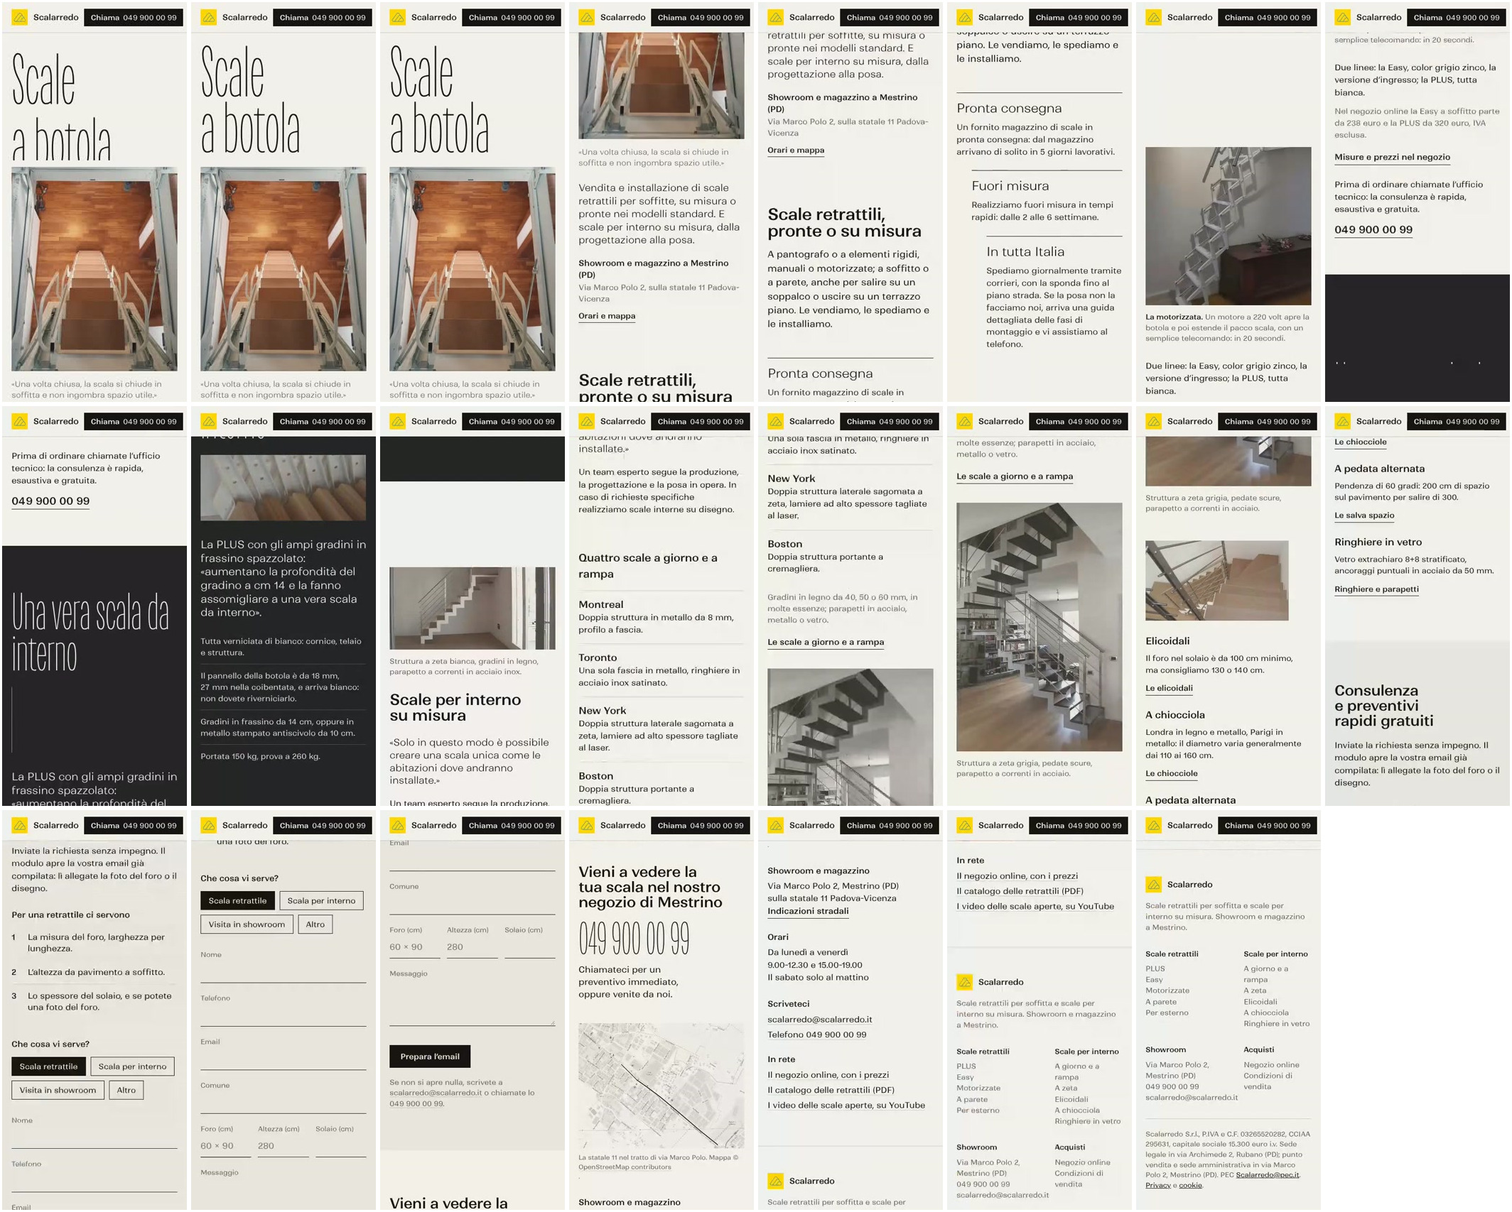
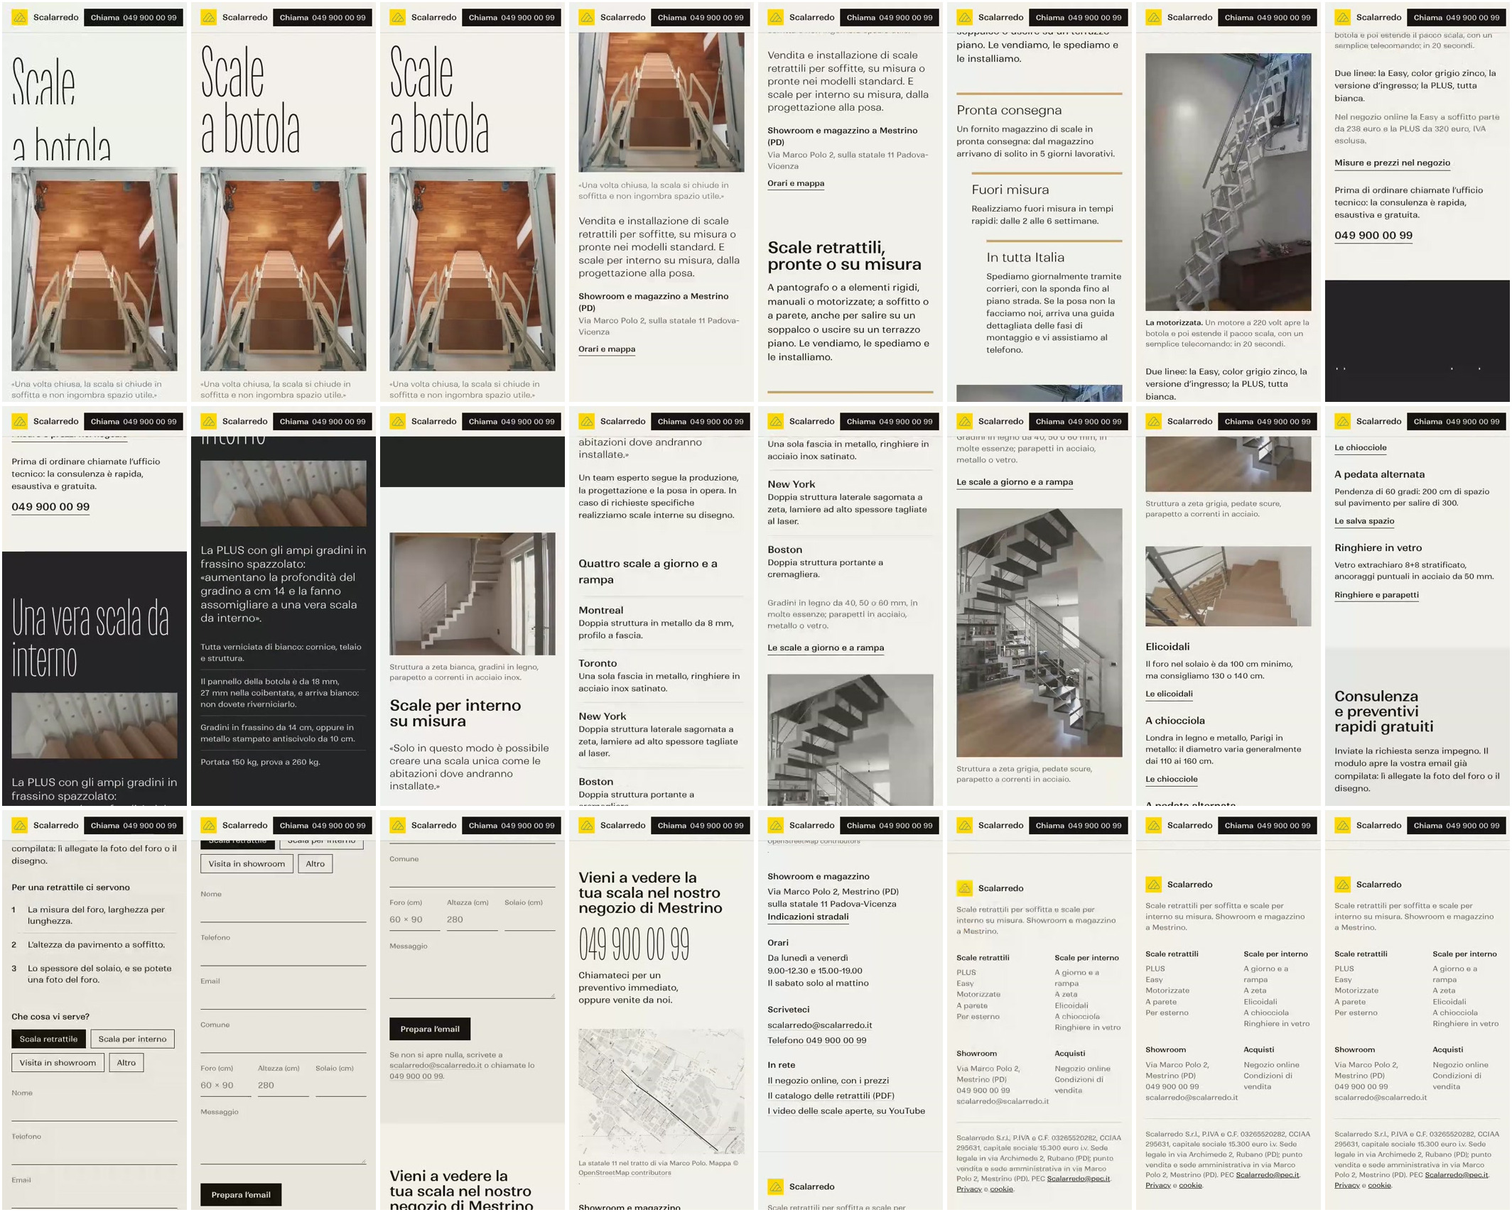
Home HE Scalarredo (prima stesura)
Claude-Session: https://claude.ai/code/session_01Cmi9YMM7yW9iHymGYNTnDH

diff --git a/Scaleabotola-Sito/sito-he/index.html b/Scaleabotola-Sito/sito-he/index.html
@@ -200,7 +200,7 @@ img{height:auto}
 .showroom{padding-block:var(--he-sez) clamp(72px,7vw,120px)}
 .sh-testa h2{grid-column:1 / span 8;font-weight:500;font-size:clamp(30px,2.9vw,44px);line-height:1.06;letter-spacing:-.02em;text-wrap:balance}
 .sh-tel{display:flex;flex-wrap:wrap;align-items:flex-end;justify-content:space-between;gap:12px 40px;margin:clamp(24px,3vw,44px) 0 clamp(48px,5vw,84px)}
-.sh-tel a{font-size:clamp(84px,17vw,268px);text-decoration:none;display:block}
+.sh-tel a{font-size:clamp(84px,22.5vw,380px);text-decoration:none;display:block}
 .sh-tel a:hover{color:#4a4743}
 .sh-tel p{font-size:18px;line-height:1.45;max-width:15em;padding-bottom:.6em}
 .sh-tre{align-items:start}
@@ -385,7 +385,7 @@ img{height:auto}
   <div class="he-wrap">
     <h2 class="firma-titolo display" id="t-firma" data-he-split>Una vera scala da interno</h2>
     <figure>
-      <div class="he-media firma-foto" data-he-wipe="sinistra"><img src="img/frassino-1200.webp" srcset="img/frassino-800.webp 800w, img/frassino-1200.webp 1200w, img/frassino-1685.webp 1685w" sizes="(min-width: 1760px) 1340px, (min-width: 900px) calc((100vw - 2 * clamp(20px, 4.2vw, 72px)) * .83), calc(100vw - 40px)" width="1685" height="670" loading="lazy" decoding="async" alt="I gradini in frassino spazzolato ripiegati nel pantografo bianco della scala retrattile PLUS"></div>
+      <div class="he-media firma-foto" data-he-wipe="su"><img src="img/frassino-1200.webp" srcset="img/frassino-800.webp 800w, img/frassino-1200.webp 1200w, img/frassino-1685.webp 1685w" sizes="(min-width: 1760px) 1340px, (min-width: 900px) calc((100vw - 2 * clamp(20px, 4.2vw, 72px)) * .83), calc(100vw - 40px)" width="1685" height="670" loading="lazy" decoding="async" alt="I gradini in frassino spazzolato ripiegati nel pantografo bianco della scala retrattile PLUS"></div>
     </figure>
     <div class="he-grid firma-sotto">
       <p class="firma-frase">La PLUS con gli ampi gradini in frassino spazzolato: «aumentano la profondità del gradino a <span class="nb">cm 14</span> e la fanno assomigliare a una vera scala da interno».</p>
@@ -404,7 +404,7 @@ img{height:auto}
   <div class="he-wrap">
     <div class="he-grid int-a">
       <figure>
-        <div class="he-media" data-he-wipe="su"><img src="img/zeta-1200.webp" srcset="img/zeta-800.webp 800w, img/zeta-1200.webp 1200w, img/zeta-1700.webp 1700w, img/zeta-2246.webp 2246w" sizes="(min-width: 900px) 62vw, calc(100vw - 40px)" width="2246" height="1664" loading="lazy" decoding="async" alt="Scala a giorno con la struttura a zeta bianca, i gradini in legno e il parapetto a correnti in acciaio, in una stanza vuota sotto il tetto"></div>
+        <div class="he-media"><img src="img/zeta-1200.webp" srcset="img/zeta-800.webp 800w, img/zeta-1200.webp 1200w, img/zeta-1700.webp 1700w, img/zeta-2246.webp 2246w" sizes="(min-width: 900px) 62vw, calc(100vw - 40px)" width="2246" height="1664" loading="lazy" decoding="async" alt="Scala a giorno con la struttura a zeta bianca, i gradini in legno e il parapetto a correnti in acciaio, in una stanza vuota sotto il tetto"></div>
         <figcaption class="didascalia">Struttura a zeta bianca, gradini in legno, parapetto a correnti in acciaio inox.</figcaption>
       </figure>
       <div class="int-testo">

diff --git a/Scaleabotola-Sito/DIREZIONE-HE.md b/Scaleabotola-Sito/DIREZIONE-HE.md
@@ -36,8 +36,8 @@ Aperti con Playwright il 7/11/2026 a 1440x900 (prima schermata e tre scorrimenti
 
 ## 3. Carattere
 
-- **Display: New Title** (Julie Soudanne e Jérémie Hornus, Fontshare, ITF Free Font License), peso 200, mai corsivo. È un carattere per i titoli di testa del cinema: lettere strettissime, quasi monolineari, alte. Usato grandissimo è una fila di montanti e alzate: il ritmo verticale di una ringhiera o del profilo di una scala vista di lato. Solo nei tre momenti forti: "Scale a botola" ai lati della botola (circa 230 px a 1440), "Una vera scala da interno" nella sezione firma (circa 250 px), il telefono nella chiusura (circa 200 px).
-- **Testo: Ranade** (Easha Ranade e Indian Type Foundry, Fontshare, ITF Free Font License), 300, 400 e 500. Un grottesco largo e calmo con le diagonali a contrasto (v, w, k, x): fa da pedata accanto alle alzate di New Title. Testo 18/28, `h2` di servizio in Ranade 500, righe grandi in 300. Cifre proporzionali (Ranade non ha le tabellari): i numeri stanno dentro frasi, non in colonna.
+- **Display: New Title** (Julie Soudanne e Jérémie Hornus, Fontshare, ITF Free Font License), peso 200, mai corsivo. Misure vere a 1440: "Scale" e "a botola" circa 204 px, la firma 268 px, il telefono 245 px. È un carattere per i titoli di testa del cinema: lettere strettissime, quasi monolineari, alte. Usato grandissimo è una fila di montanti e alzate: il ritmo verticale di una ringhiera o del profilo di una scala vista di lato. Solo nei tre momenti forti: "Scale a botola" ai lati della botola, "Una vera scala da interno" nella sezione firma, il telefono nella chiusura.
+- **Testo: Ranade** (Easha Ranade e Indian Type Foundry, Fontshare, ITF Free Font License), 300, 400 e 500. Un grottesco largo e calmo con le diagonali a contrasto (v, w, k, x): fa da pedata accanto alle alzate di New Title. Testo 18/28, `h2` di servizio in Ranade 500, righe grandi in 300. Cifre proporzionali (Ranade non ha le tabellari): i numeri stanno dentro frasi, non in colonna. Lo spazio indivisibile di Ranade è largo il doppio di uno spazio: numero e unità stanno in uno `span` che non va a capo, con lo spazio normale.
 - Registrati in `_metodo/professionale/alto/REGISTRO-CARATTERI.md`: nessuna altra home li usa (controllo su tutte le `*/sito/` e `*/sito-he/` e sul registro, 7/11/2026; Distilleria Rizzi, stessa zona, ha Besley ed Excon). Escono Archivo della versione di oggi e le famiglie vietate dalla consegna.
 - File woff2 ufficiali di Fontshare, ospitati senza modifiche in `sito-he/fonts/` con la licenza `FFL-ITF.txt`.
 
@@ -54,16 +54,16 @@ Dai materiali delle loro scale: la PLUS "tutta verniciata di bianco", il frassin
 
 - **Gesto d'apertura, la botola** (`data-he-scale`): la prima schermata è il soffitto, con il pannello chiuso disegnato da un filetto e una fessura scura nel mezzo. Scorrendo la fessura si apre fino al vano intero e si vede quello che c'era dietro: la scala retrattile dall'alto, i gradini in legno che scendono al parquet. La cornice parte stretta su un dettaglio e finisce sulla foto intera alla misura vera (2020x2491 mostrata a circa 600x740): scopre qualcosa, non cambia lo sfondo. Il titolo resta fermo ai lati, come scritto sul soffitto. Sotto i 900 px niente sezione fissata: titolo, foto e testo uno sotto l'altro.
 - **Sostegno 1, titoli che salgono riga per riga** (`data-he-split`): "Scale a botola" all'apertura, "Una vera scala da interno" nella firma, il telefono della chiusura. Tre in tutto.
-- **Sostegno 2, foto che si scoprono con un taglio** (`data-he-wipe`): solo le foto che entrano per la prima volta nelle due sezioni di prodotto (la motorizzata, la banda dei gradini in frassino, la scala a zeta), come una botola che si apre di lato.
+- **Sostegno 2, foto che si scoprono con un taglio** (`data-he-wipe`): solo due foto: la motorizzata nel sottoscala e la banda dei gradini in frassino della firma, che salgono dal basso come una scala che si apre. Le foto delle scale da interno entrano senza taglio: nel video un taglio a metà lasciava mezza schermata vuota. Sotto i 900 px il taglio è tolto: sul telefono le foto ci sono subito.
 - Testata che si nasconde scendendo (`data-he-header`), con il numero sempre visibile sul telefono.
 - Niente sipario, niente parallasse, niente gallerie fissate, niente indice: gli altri cambi di ritmo li fanno la scala dei caratteri e l'impaginazione a gradini.
 
 ## 6. Ritmo: sezioni e scheletri
 
 1. **Apertura, la botola** (scheletro simmetrico: un oggetto al centro, due colonne di testo ai lati). Calce. "Scale" a sinistra e "a botola" a destra del vano, a filo con il suo bordo alto; in basso a sinistra che cosa fanno, in basso a destra dove sono.
-2. **Retrattili, pronta consegna o su misura** (scheletro a gradini: quattro pedate sfalsate che scendono da sinistra a destra, ognuna con un filetto di pedata e uno di alzata; la foto della motorizzata sta nel sottoscala). Calce. Tipi, tempi, spedizione, montaggio, prezzi d'ingresso e il link al negozio online.
+2. **Retrattili, pronta consegna o su misura** (scheletro a gradini: tre pedate sfalsate che scendono da sinistra a destra, la pedata in frassino e l'alzata in nero, come la struttura a zeta con i gradini in legno; la foto della motorizzata sta nel sottoscala, sotto la seconda pedata la gamma e il negozio, sotto la terza l'ufficio tecnico). Calce. Tipi, tempi, spedizione, montaggio, prezzi d'ingresso e il link al negozio online.
 3. **Firma, "Una vera scala da interno"** (scheletro a pila centrata a tutta larghezza: titolo enorme, banda fotografica, frase, quattro dati in riga). Antracite. La PLUS con i gradini in frassino da 14 cm: la prova è la foto dei gradini sul pantografo bianco. Nessun bottone del negozio.
-4. **Scale per interno su misura** (scheletro a mosaico asimmetrico: foto grande a sinistra, testo in alto a destra, foto verticale sfalsata, elenco dei quattro modelli accanto). Calce. Montreal, Toronto, New York, Boston in quattro righe; elicoidali, chiocciole, pedata alternata e ringhiere in una frase.
+4. **Scale per interno su misura** (scheletro a mosaico a zeta: foto grande a sinistra e testo a destra; elenco dei quattro modelli a sinistra e foto verticale sfalsata a destra; poi la banda larga della rampa vista dall'alto e quattro voci in fila). Calce. Montreal, Toronto, New York, Boston in quattro righe; elicoidali, chiocciole, pedata alternata e ringhiere in una frase.
 5. **Richiesta di preventivo** (scheletro a modulo: tre passi numerati, perché sono una procedura, e il modulo largo). Calce con un fondo leggermente più scuro. Lo stesso modulo della versione di oggi, che prepara l'email.
 6. **Showroom di Mestrino** (scheletro a riga gigante e tre colonne: il telefono in New Title su tutta la larghezza, sotto mappa, orari e indirizzo, email e negozio). Calce.
 7. **Piede**: dati legali, condizioni di vendita, privacy e cookie, catalogo PDF, YouTube.

diff --git a/_metodo/professionale/alto/REGISTRO-CARATTERI.md b/_metodo/professionale/alto/REGISTRO-CARATTERI.md
@@ -36,4 +36,4 @@ Una riga per azienda, scritta nella direzione artistica prima dell'HTML. Control
 | Argenteria Varotto Alfredo, home HE (7/11/2026) | Padova (Corso Stati Uniti) | home HE, `_metodo/highend/SISTEMA.md` (i tetti di misura del registro non valgono) | Rowan (Indian Type Foundry, Fontshare, ITF Free Font License 2.0, woff2 ufficiali ospitati senza modifiche) solo per i tre momenti forti: il titolo d'apertura, il titolo della vetrina, il "999", più i due ovali 925 e 800; Plein (Indian Type Foundry, Fontshare, ITF Free Font License 2.0) per testo, `h2` di servizio, testata, didascalie, telefono e modulo; nessuna monospaziata | Rowan 300, mai corsivo (cifre antiche solo nel "999"); Plein 400 e 500, cifre allineate | "Tutta la tavola, in argento." Rowan 300 150/0,9 a 1440 / 64 a 390; "Argento massiccio" 196/0,84 / 64; "999" 374/0,74 / 172; `h2` Plein 500 da 42 a 68 / da 28 a 34 | Plein 18/28 400 / 17/26; didascalie 14; interfaccia 15 | regola HE: il titolo a 150 px che passa dal crema al nero quando l'astuccio blu si apre, poi "Argento massiccio" a 196 px in piedi sul ripiano e "999" a 374 px accanto al leone | Rowan: nessuna; Plein: nessuna (né in `*/sito/index.html`, né in `*/sito-he/index.html`, né in questo registro al 7/11/2026); escono Bodoni Moda e Rethink Sans della versione di oggi; Supreme scartato (paragrafo d di `_metodo/CARATTERI-E-SEGNALI-IA.md`) |
 | Paraga Pelli, home HE (7/11/2026) | Riviera del Brenta (Tombelle di Vigonovo) | home HE, `_metodo/highend/SISTEMA.md` (i tetti di misura del registro non valgono) | Boska (Barbara Bigosinska, Indian Type Foundry, Fontshare, ITF Free Font License 2.0, woff2 ufficiali ospitati senza modifiche) solo per i tre momenti forti: il titolo d'apertura, i cinque disegni della pelle nella firma, il titolo della chiusura, più i nomi degli articoli del catalogo a 30 px; Author (Satya Rajpurohit, Indian Type Foundry, Fontshare, ITF Free Font License 2.0) per testo, `h2` di servizio, testata, didascalie, misure e recapiti; nessuna monospaziata | Boska 200 (300 per i nomi del catalogo), mai corsivo; Author 300 (misure e telefono), 400, 500 | "Pelle, ecopelle, tessuti" Boska 200 226/0,86 a 1440 (295 a 1920) / 74 a 390; "Dollaro", "Uruguay", "Madras", "Naturale", "Martellata" 181 / 74; "Richiedi il box-campionario" 147 / 55; `h2` Author 500 42/45 / 28/30 | Author 19/29 400 / 17/26; didascalie 15; interfaccia 16 | regola HE: il titolo a 226 px sopra la corsia del magazzino che si apre, poi i disegni della pelle a 181 px accanto alla grana vera | Boska: nessuna; Author: nessuna (né in `*/sito/index.html`, né in `*/sito-he/index.html`, né in questo registro al 7/11/2026); escono Mona Sans e Libre Caslon Display della versione di oggi |
 | Distilleria Rizzi, home HE (7/11/2026) | Rubano e Mestrino | home HE, `_metodo/highend/SISTEMA.md` (i tetti di misura del registro non valgono) | Besley (Owen Earl, Indestructible Type, SIL OFL 1.1, Google Fonts, file variabile, woff2 latino ospitato) solo per i tre momenti forti: il motto d'apertura, il titolo della firma con i gradi delle bottiglie, il telefono dei contatti: un Clarendon come la fascia RIZZI dell'etichetta del Bitter e del LEONE; Excon (Indian Type Foundry, Fontshare, ITF Free Font License 2.0, woff2 ufficiali ospitati senza modifiche) per testo, `h2` di servizio, testata, didascalie, recapiti e piede; nessuna monospaziata (cifre tabellari solo dove servono) | Besley 400, mai corsivo; Excon 400 e 500 | "Oggi come una volta" Besley 400 166/0,9 a 1440 / 72 a 390; "Da 11 a 70 gradi" 171/0,88 / 66; gradi delle bottiglie 37 / 30; telefono 135 / 51; `h2` Excon 500 da 33 a 62 / da 26 a 34 | Excon 18/28 400 / 18/28; citazioni 30 / 22; didascalie 15; interfaccia 16-17 | regola HE: il motto a 166 px accanto alla cornice sull'etichetta del Bitter che si allarga alla bottiglia, poi "Da 11 a 70 gradi" a 171 px sopra le otto bottiglie sul righello | Besley: nessuna; Excon: nessuna (né in `*/sito/index.html`, né in `*/sito-he/index.html`, né in questo registro al 7/11/2026); escono Zodiak e Switzer della versione di oggi |
-| Scalarredo (Scaleabotola), home HE (7/11/2026) | Rubano e Mestrino | home HE, `_metodo/highend/SISTEMA.md` (i tetti di misura del registro non valgono) | New Title (Julie Soudanne e Jérémie Hornus, Fontshare, ITF Free Font License, woff2 ufficiali ospitati senza modifiche) solo per i momenti forti: il titolo d'apertura sulla botola, il titolo della sezione firma, il telefono della chiusura; Ranade (Easha Ranade e Indian Type Foundry, Fontshare, ITF Free Font License) per testo, `h2` di servizio, testata, didascalie, misure, modulo e piede; nessuna monospaziata (cifre tabellari di Ranade) | New Title 200, mai corsivo; Ranade 300 (righe grandi), 400, 500 | in compilazione, vedi `Scaleabotola-Sito/DIREZIONE-HE.md` | Ranade 18/28 400 / 17/26 | regola HE: il titolo d'apertura stretto e altissimo ai lati della botola che si apre | New Title: nessuna; Ranade: nessuna (né in `*/sito/index.html`, né in `*/sito-he/index.html`, né in questo registro al 7/11/2026); esce Archivo della versione di oggi |
+| Scalarredo (Scaleabotola), home HE (7/11/2026) | Rubano e Mestrino | home HE, `_metodo/highend/SISTEMA.md` (i tetti di misura del registro non valgono) | New Title (Julie Soudanne e Jérémie Hornus, Fontshare, ITF Free Font License, woff2 ufficiali ospitati senza modifiche) solo per i tre momenti forti: "Scale a botola" ai lati della botola, il titolo della sezione firma, il telefono della chiusura; Ranade (Easha Ranade e Indian Type Foundry, Fontshare, ITF Free Font License) per testo, `h2` di servizio, pedate, testata, didascalie, modulo e piede; nessuna monospaziata (Ranade ha cifre proporzionali: i numeri stanno dentro frasi) | New Title 200, mai corsivo; Ranade 300 (lead, pedate, frase della firma), 400, 500 (`h2`, nomi, bottoni) | "Scale" e "a botola" New Title 200 circa 204/0,84 a 1440 (circa 300 a 1920) / 140 a 390; "Una vera scala da interno" 268 su una riga / 101; telefono 245 / 90; `h2` Ranade 500 da 42 a 53 / da 30 a 34; pedate Ranade 300 36 / 26 | Ranade 18/28 400 / 17/26; lead 21/29 300; didascalie 15; interfaccia 15-16 | regola HE: "Scale" e "a botola" a circa 204 px ai due lati del pannello della botola che si apre scorrendo, poi la firma a 268 px sull'antracite sopra i gradini in frassino | New Title: nessuna; Ranade: nessuna (né in `*/sito/index.html`, né in `*/sito-he/index.html`, né in questo registro al 7/11/2026; Distilleria Rizzi, stessa zona, ha Besley ed Excon); esce Archivo della versione di oggi |

diff --git a/Scaleabotola-Sito/screenshot/he/NOTA-HE.md b/Scaleabotola-Sito/screenshot/he/NOTA-HE.md
@@ -1,0 +1,64 @@
+# Scalarredo, home HE: nota
+
+Pagina: `../../sito-he/index.html` (kit in `sito-he/kit/`, caratteri e immagini in locale). Direzione: `../../DIREZIONE-HE.md`. Ottavo pilota del sistema HE, 7/11/2026. Non pubblicata, azienda non contattata.
+
+## L'idea
+
+La pagina è un soffitto bianco con una botola. In prima schermata il pannello chiuso è disegnato da un filetto e lascia vedere solo una fessura con i gradini; scorrendo la botola si apre e si vede la scala retrattile dall'alto, con "Scale" e "a botola" ai due lati in New Title. Poi la pagina scende come una scala: tre pedate in frassino per le retrattili, la firma "Una vera scala da interno" (la frase loro sulla PLUS con i gradini in frassino da 14 cm), le scale per interno su misura, il modulo, lo showroom di Mestrino con il telefono su tutta la riga.
+
+## File
+
+- `foglio-1440.jpg`, `foglio-390.jpg`: i fotogrammi del video (uno al secondo), da `_metodo/highend/kit/registra.mjs`.
+- `prima-schermata-1440.jpg`, `prima-schermata-390.jpg`.
+- `scorrimento-*.mp4` e `fotogrammi-*` restano fuori da git (si rigenerano).
+- Prove, schermate di lavoro, riferimenti e script in `../../_prova/he/` (fuori da git): `prove-finale.json`, `script/immagini.py` (un solo trattamento per tutte le foto), `script/mappa.py`, `riferimenti/`.
+
+## Foto
+
+Originali riscaricati dalla libreria media di scalarredo.it (`/wp-json/wp/v2/media`, 474 voci) il 7/11/2026, anche le versioni senza `-scaled` (sul server sotto `/wordpress/wp-content/uploads/`): 121 file in `assets/originali/wp/`, fuori da git. In pagina, sempre sotto la misura nativa (rapporto peggiore 0,65 a 1440, 0,80 a 1920):
+
+| In pagina | Originale | Misura nativa | Mostrata a 1440 |
+|---|---|---|---|
+| botola (apertura) | `2026/05/elementilegno.jpg` | 2020x2491 | 610x752 |
+| motorizzata | `2026/05/motorizzata3.jpg` | 1440x2560 (tagliata 1440x2240) | 423x658 |
+| firma, gradini in frassino | `2026/04/pantografo-legno-plus-01.jpg` | 1685x670 | 1095x435 |
+| zeta bianca | `2026/05/Immagini-061.jpg` | 2496x1664 (tagliata 2246x1664) | 870x645 |
+| zeta antracite | `2026/05/scala-a-giorno.jpg` | 1664x2496 | 535x802 |
+| rampa in rovere dall'alto | `2026/05/immagini-059.jpg` | 2496x1664 (tagliata 2060x1000) | 1320x641 |
+
+Trovati e non usati: l'originale di `montreal-012.jpg` (3422x2288, il divano rosso domina), `IMG_20260120_162208.jpg` (6528x4896, scala a zeta con la carta da parati fotografica e gli armadi), `Toronto0012.jpg` (2496x1664, pareti gialle e cotto). Le circa 75 immagini con i segni dell'IA restano fuori.
+
+Mappa: tasselli OpenStreetMap (ODbL, attribuzione in pagina) in un tono solo, con la statale 11 ripassata nel tratto di via Marco Polo; nessuno spillo, perché il civico 2 non è sulla mappa.
+
+## Prove (sezione 6)
+
+- 390, 768, 1024, 1440, 1920, con e senza "riduci movimento": nessuno scorrimento orizzontale, nessun errore di script o di rete.
+- "Riduci movimento": stesso testo (5.112 caratteri a 1440), nessun elemento nascosto, botola aperta e ferma.
+- Peso al primo caricamento: 375 KB a 1440, 343 KB a 390.
+- CLS: al massimo 0,0002, anche con la sezione fissata.
+- Video: 0 errori a 1440 e a 390.
+
+## Foto da rifare (materiale per il servizio fotografico)
+
+Le foto pesano per circa metà della distanza da un 9: tutte quelle in pagina sono scatti di telefono o di vecchie fotocamere in casa dei clienti.
+1. **La botola dall'alto**, come `elementilegno.jpg` ma con la PLUS bianca e i gradini in frassino, dal cavalletto sopra il foro, ottica 35 mm, almeno 4000 px: oggi sul parquet ci sono un avvitatore e la scarpa di chi monta, e il telaio ha una dominante azzurra. Servirebbe anche lo stesso punto con la botola chiusa (il pannello bianco da 18 mm): il gesto d'apertura diventerebbe una foto vera.
+2. **Macro dei gradini in frassino spazzolato** sul pantografo bianco, luce radente: `pantografo-legno-plus-01.jpg` è morbida al 100% e su retina (è la prova della firma).
+3. **La motorizzata aperta su un muro bianco**, senza la cassapanca e i fiori, con il motore leggibile.
+4. **Scale a giorno posate, casa sgombra, luce di finestra**, almeno 3000 px: la zeta bianca di `Immagini-061.jpg` ha lo stipite scuro a sinistra e la finestra bruciata; la zeta antracite ha libreria e oggetti dietro. Una per modello (Montreal, Toronto, New York, Boston), con comune e anno.
+5. **Elicoidale, chiocciola Londra o Parigi, parapetto in vetro**: oggi non c'è una foto vera e grande di nessuna.
+6. **Showroom e magazzino di Mestrino** (facciata sulla statale 11, scaffali in pronta consegna, la persona dell'ufficio tecnico): non ce n'è nessuna.
+
+## Problemi aperti
+
+- Diritti: `elementilegno.jpg`, `pantografo-legno-plus-01.jpg` e `motorizzata3.jpg` sono sul loro sito ma potrebbero essere del fornitore; le scale da interno sono in case di clienti. Da chiedere.
+- Le didascalie delle foto da interno descrivono quello che si vede (struttura a zeta, pedate scure, ventaglio): il nome del modello (New York?) va confermato prima di scriverlo.
+- Prezzi (Easy da 238 euro, PLUS da 320, IVA esclusa) letti nel negozio: vanno riletti alla pubblicazione.
+- Orario del sabato: in pagina solo "il sabato solo al mattino", come sul loro sito.
+- Il modulo prepara un'email (come nella versione di oggi): va collegato a un invio vero con il caricamento delle foto del foro.
+- Logo: in testata il marchio a triangolo in SVG (tracciato dal PNG) nel quadrato giallo, con "Scalarredo" composto in Ranade; serve il vettoriale e il nome del carattere della loro scritta.
+- Ranade ha lo spazio indivisibile largo il doppio: numero e unità sono tenuti insieme da uno `span` senza a capo.
+- Nel video la prima riga di fotogrammi mostra quattro volte la botola chiusa: è l'attesa iniziale di `registra.mjs`, non un blocco della pagina.
+
+## Voto
+
+Il mio: 8,1 (design 8, creatività 8,5, usabilità 8, contenuto 8). Con lo scarto medio dei piloti (0,7) mi aspetto dal giudice circa 7,4. Quello che manca per l'8 sta quasi tutto nelle foto (punti 1, 2 e 4 sopra).
